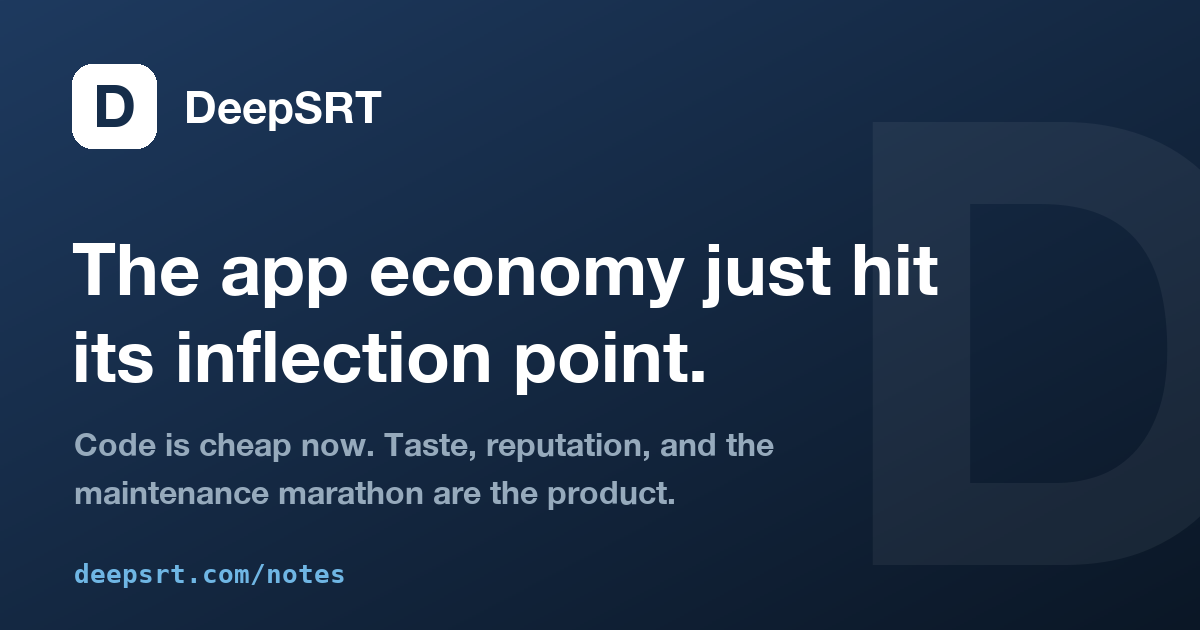
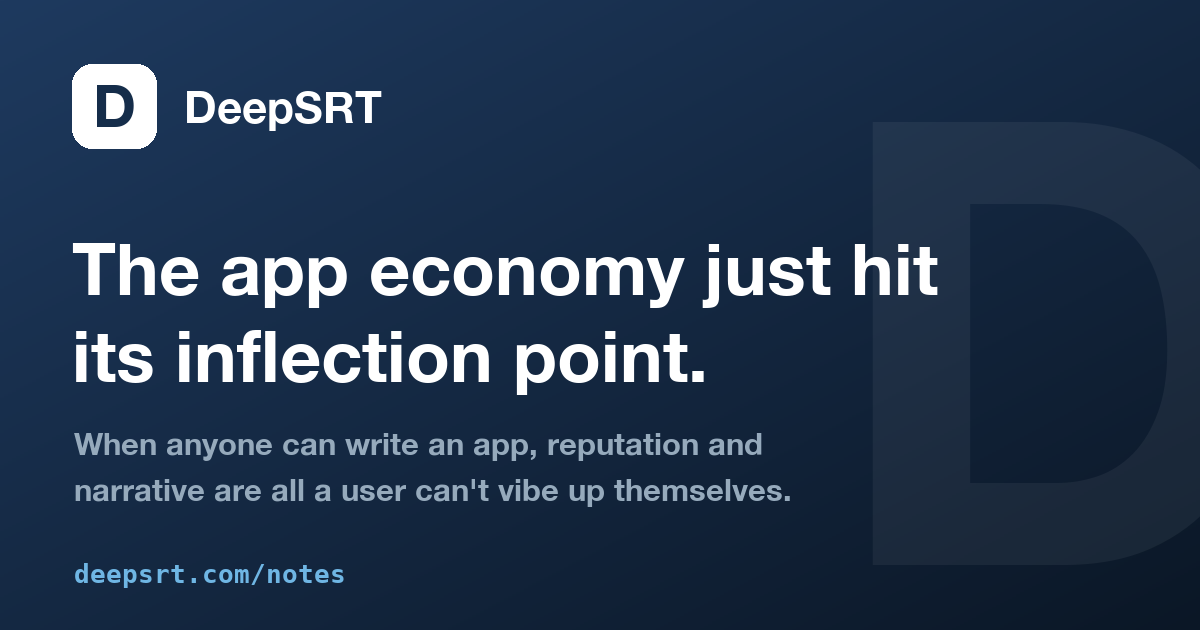
notes: subtitle B — 'reputation and narrative are all a user can't vibe up themselves' (lead, descriptions, OG cards, 4 locales)

Changed region(s): [[0.0617, 0.754, 0.6475, 0.8143], [0.0617, 0.6635, 0.6475, 0.7238]]

diff --git a/ja/notes/app-economy-inflection-point/index.html b/ja/notes/app-economy-inflection-point/index.html
@@ -4,10 +4,10 @@
   <meta charset="utf-8">
   <meta name="viewport" content="width=device-width, initial-scale=1">
   <title>アプリ経済は決定的な転換点に来た</title>
-  <meta name="description" content="コードを書くことはもう安い。評判とセンス、そしてメンテナンスというマラソンこそがプロダクトだ——小銭価格の時代は終わった。">
+  <meta name="description" content="誰でもアプリを書ける時代、評判と語る力だけが、ユーザーが自分で vibe できない唯一のものになった。">
   <meta property="og:type" content="article">
   <meta property="og:title" content="アプリ経済は決定的な転換点に来た">
-  <meta property="og:description" content="コードを書くことはもう安い。評判とセンス、そしてメンテナンスというマラソンこそがプロダクトだ——小銭価格の時代は終わった。">
+  <meta property="og:description" content="誰でもアプリを書ける時代、評判と語る力だけが、ユーザーが自分で vibe できない唯一のものになった。">
   <meta property="og:url" content="https://deepsrt.com/ja/notes/app-economy-inflection-point/">
   <meta property="og:locale" content="ja_JP">
   <meta property="og:image" content="https://deepsrt.com/ja/notes/app-economy-inflection-point/og-card.png">
@@ -80,7 +80,7 @@
 <main>
   <a class="backlink" href="/ja/notes/">← ノート</a>
   <h1>アプリ経済は決定的な転換点に来た</h1>
-  <p class="lead">コードを書くことはもう安い。評判とセンス、そしてメンテナンスというマラソンこそがプロダクトだ——小銭価格の時代は終わった。</p>
+  <p class="lead">誰でもアプリを書ける時代、評判と語る力だけが、ユーザーが自分で vibe できない唯一のものになった。</p>
   <p class="meta">2026年8月 · DeepSRT 開発ノート</p>
   <article>
 

diff --git a/ko/notes/app-economy-inflection-point/index.html b/ko/notes/app-economy-inflection-point/index.html
@@ -4,10 +4,10 @@
   <meta charset="utf-8">
   <meta name="viewport" content="width=device-width, initial-scale=1">
   <title>앱 경제는 결정적 변곡점에 도달했다</title>
-  <meta name="description" content="코드를 쓰는 일은 이제 값싸다. 평판과 안목, 그리고 유지보수라는 마라톤이 곧 제품이다 — 동전 가격의 시대는 끝났다.">
+  <meta name="description" content="누구나 앱을 만들 수 있는 시대, 평판과 서사 능력만이 사용자가 스스로 vibe해낼 수 없는 유일한 것이 되었다.">
   <meta property="og:type" content="article">
   <meta property="og:title" content="앱 경제는 결정적 변곡점에 도달했다">
-  <meta property="og:description" content="코드를 쓰는 일은 이제 값싸다. 평판과 안목, 그리고 유지보수라는 마라톤이 곧 제품이다 — 동전 가격의 시대는 끝났다.">
+  <meta property="og:description" content="누구나 앱을 만들 수 있는 시대, 평판과 서사 능력만이 사용자가 스스로 vibe해낼 수 없는 유일한 것이 되었다.">
   <meta property="og:url" content="https://deepsrt.com/ko/notes/app-economy-inflection-point/">
   <meta property="og:locale" content="ko_KR">
   <meta property="og:image" content="https://deepsrt.com/ko/notes/app-economy-inflection-point/og-card.png">
@@ -80,7 +80,7 @@
 <main>
   <a class="backlink" href="/ko/notes/">← 노트</a>
   <h1>앱 경제는 결정적 변곡점에 도달했다</h1>
-  <p class="lead">코드를 쓰는 일은 이제 값싸다. 평판과 안목, 그리고 유지보수라는 마라톤이 곧 제품이다 — 동전 가격의 시대는 끝났다.</p>
+  <p class="lead">누구나 앱을 만들 수 있는 시대, 평판과 서사 능력만이 사용자가 스스로 vibe해낼 수 없는 유일한 것이 되었다.</p>
   <p class="meta">2026년 8월 · DeepSRT 개발 노트</p>
   <article>
 

diff --git a/notes/app-economy-inflection-point/index.html b/notes/app-economy-inflection-point/index.html
@@ -4,10 +4,10 @@
   <meta charset="utf-8">
   <meta name="viewport" content="width=device-width, initial-scale=1">
   <title>The App Economy's Inflection Point</title>
-  <meta name="description" content="Writing code is cheap now. Reputation, taste, and the marathon of maintenance are the product — the age of coin-sized prices is over.">
+  <meta name="description" content="When anyone can write an app, reputation and the ability to narrate become the only things a user can't vibe up for themselves.">
   <meta property="og:type" content="article">
   <meta property="og:title" content="The App Economy's Inflection Point">
-  <meta property="og:description" content="Writing code is cheap now. Reputation, taste, and the marathon of maintenance are the product — the age of coin-sized prices is over.">
+  <meta property="og:description" content="When anyone can write an app, reputation and the ability to narrate become the only things a user can't vibe up for themselves.">
   <meta property="og:url" content="https://deepsrt.com/notes/app-economy-inflection-point/">
   <meta property="og:locale" content="en_US">
   <meta property="og:image" content="https://deepsrt.com/notes/app-economy-inflection-point/og-card.png">
@@ -80,7 +80,7 @@
 <main>
   <a class="backlink" href="/notes/">← Notes</a>
   <h1>The App Economy's Inflection Point</h1>
-  <p class="lead">Writing code is cheap now. Reputation, taste, and the marathon of maintenance are the product — the age of coin-sized prices is over.</p>
+  <p class="lead">When anyone can write an app, reputation and the ability to narrate become the only things a user can't vibe up for themselves.</p>
   <p class="meta">August 2026 · DeepSRT development notes</p>
   <article>
 

diff --git a/zh/notes/app-economy-inflection-point/index.html b/zh/notes/app-economy-inflection-point/index.html
@@ -4,10 +4,10 @@
   <meta charset="utf-8">
   <meta name="viewport" content="width=device-width, initial-scale=1">
   <title>App 經濟來到關鍵拐點</title>
-  <meta name="description" content="寫 code 已經是便宜的事。信譽、品味、和維護這場馬拉松，才是產品——銅板價的時代結束了。">
+  <meta name="description" content="當人人都寫得出 App，信譽和敘事能力，成了使用者唯一無法自己 vibe 出來的東西。">
   <meta property="og:type" content="article">
   <meta property="og:title" content="App 經濟來到關鍵拐點">
-  <meta property="og:description" content="寫 code 已經是便宜的事。信譽、品味、和維護這場馬拉松，才是產品——銅板價的時代結束了。">
+  <meta property="og:description" content="當人人都寫得出 App，信譽和敘事能力，成了使用者唯一無法自己 vibe 出來的東西。">
   <meta property="og:url" content="https://deepsrt.com/zh/notes/app-economy-inflection-point/">
   <meta property="og:locale" content="zh_TW">
   <meta property="og:image" content="https://deepsrt.com/zh/notes/app-economy-inflection-point/og-card.png">
@@ -80,7 +80,7 @@
 <main>
   <a class="backlink" href="/zh/notes/">← 筆記</a>
   <h1>App 經濟來到關鍵拐點</h1>
-  <p class="lead">寫 code 已經是便宜的事。信譽、品味、和維護這場馬拉松，才是產品——銅板價的時代結束了。</p>
+  <p class="lead">當人人都寫得出 App，信譽和敘事能力，成了使用者唯一無法自己 vibe 出來的東西。</p>
   <p class="meta">2026 年 8 月 · DeepSRT 開發筆記</p>
   <article>
 

diff --git a/ja/notes/index.html b/ja/notes/index.html
@@ -79,7 +79,7 @@
       <a href="/ja/notes/app-economy-inflection-point/">
         <div class="t">アプリ経済は決定的な転換点に来た</div>
         <div class="d">2026年8月 · DeepSRT 開発ノート</div>
-        <div class="s">コードを書くことはもう安い。評判とセンス、そしてメンテナンスというマラソンこそがプロダクトだ——小銭価格の時代は終わった。</div>
+        <div class="s">誰でもアプリを書ける時代、評判と語る力だけが、ユーザーが自分で vibe できない唯一のものになった。</div>
       </a>
     </li>
     <li>

diff --git a/ko/notes/index.html b/ko/notes/index.html
@@ -79,7 +79,7 @@
       <a href="/ko/notes/app-economy-inflection-point/">
         <div class="t">앱 경제는 결정적 변곡점에 도달했다</div>
         <div class="d">2026년 8월 · DeepSRT 개발 노트</div>
-        <div class="s">코드를 쓰는 일은 이제 값싸다. 평판과 안목, 그리고 유지보수라는 마라톤이 곧 제품이다 — 동전 가격의 시대는 끝났다.</div>
+        <div class="s">누구나 앱을 만들 수 있는 시대, 평판과 서사 능력만이 사용자가 스스로 vibe해낼 수 없는 유일한 것이 되었다.</div>
       </a>
     </li>
     <li>

diff --git a/notes/index.html b/notes/index.html
@@ -79,7 +79,7 @@
       <a href="/notes/app-economy-inflection-point/">
         <div class="t">The App Economy&#x27;s Inflection Point</div>
         <div class="d">August 2026 · DeepSRT development notes</div>
-        <div class="s">Writing code is cheap now. Reputation, taste, and the marathon of maintenance are the product — the age of coin-sized prices is over.</div>
+        <div class="s">When anyone can write an app, reputation and the ability to narrate become the only things a user can't vibe up for themselves.</div>
       </a>
     </li>
     <li>

diff --git a/zh/notes/index.html b/zh/notes/index.html
@@ -79,7 +79,7 @@
       <a href="/zh/notes/app-economy-inflection-point/">
         <div class="t">App 經濟來到關鍵拐點</div>
         <div class="d">2026 年 8 月 · DeepSRT 開發筆記</div>
-        <div class="s">寫 code 已經是便宜的事。信譽、品味、和維護這場馬拉松，才是產品——銅板價的時代結束了。</div>
+        <div class="s">當人人都寫得出 App，信譽和敘事能力，成了使用者唯一無法自己 vibe 出來的東西。</div>
       </a>
     </li>
     <li>
